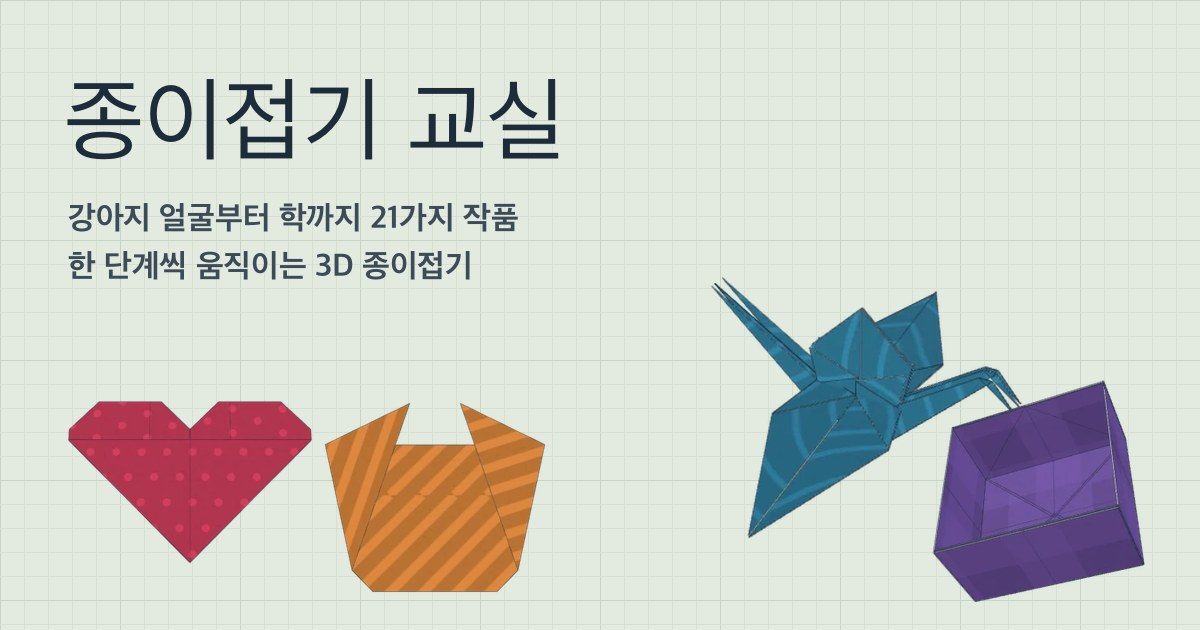
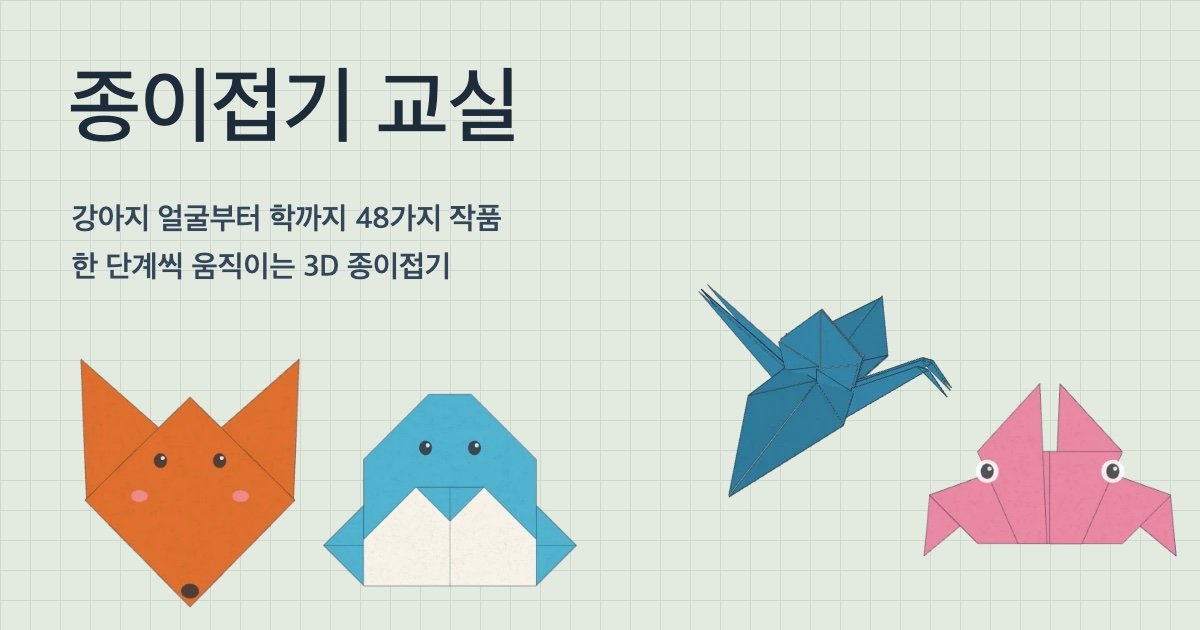
공유 미리보기 이미지 갱신 (무늬 없는 현재 작품, 48가지)

diff --git a/scripts/og.html b/scripts/og.html
@@ -1,0 +1,15 @@
+<!doctype html><html><head><meta charset="utf-8"><style>
+<!-- 공유 미리보기(og.jpg) 원본: 크롬 헤드리스로 1200x630 캡처 → jpg. http://localhost:5173/scripts/og.html -->
+html,body{margin:0;width:1200px;height:630px;overflow:hidden;font-family:Pretendard,"Apple SD Gothic Neo",system-ui,sans-serif;background:#e3eadf;
+background-image:linear-gradient(#cfd9cb 1px,transparent 1px),linear-gradient(90deg,#cfd9cb 1px,transparent 1px);background-size:30px 30px;color:#1e2b3a}
+h1{position:absolute;left:68px;top:60px;margin:0;font-size:84px;font-weight:500;letter-spacing:-1px}
+p{position:absolute;left:72px;top:196px;margin:0;font-size:30px;line-height:1.6;color:#33465a;font-weight:600}
+img{position:absolute;width:300px;height:300px}
+</style></head><body>
+<h1>종이접기 교실</h1>
+<p>강아지 얼굴부터 학까지 48가지 작품<br>한 단계씩 움직이는 3D 종이접기</p>
+<img src="../thumbs/fox.webp" style="left:40px;top:330px">
+<img src="../thumbs/penguin.webp" style="left:300px;top:340px">
+<img src="../thumbs/crane.webp" style="left:640px;top:180px;width:360px;height:360px">
+<img src="../thumbs/crab.webp" style="left:900px;top:320px">
+</body></html>

diff --git a/CLAUDE.md b/CLAUDE.md
@@ -45,6 +45,7 @@ GitHub `jinsyu/origami` → Vercel 자동 배포 (main 푸시 = 배포). 빌드 
 
 - 로컬: `python3 -m http.server 5173` (이미 띄워져 있으면 재사용). 브라우저 캐시 때문에 수정 파일은 `fetch(url,{cache:'reload'})` 후 새로고침.
 - 검증: `npm run check` + `node --check src/i18n/en.js` (check는 en.js를 읽지 않음) + 브라우저 화면 확인.
+- 공유 미리보기: `scripts/og.html` 을 1200x630 으로 캡처해 og.jpg 로 저장 (작품 수 문구 갱신).
 - 썸네일: `node scripts/thumb-server.mjs` 띄우고 헤드리스 크롬(`--headless=new --use-angle=swiftshader --enable-unsafe-swiftshader`)으로 `?live&save#/` 를 40초 열기. 작품·색을 바꾸면 반드시 다시 만든다.
 - 브라우저 패널이 가려지면 rAF가 멈춘다 → 슬라이더(`#progress`)를 직접 바꿔 상태를 본다.
 
